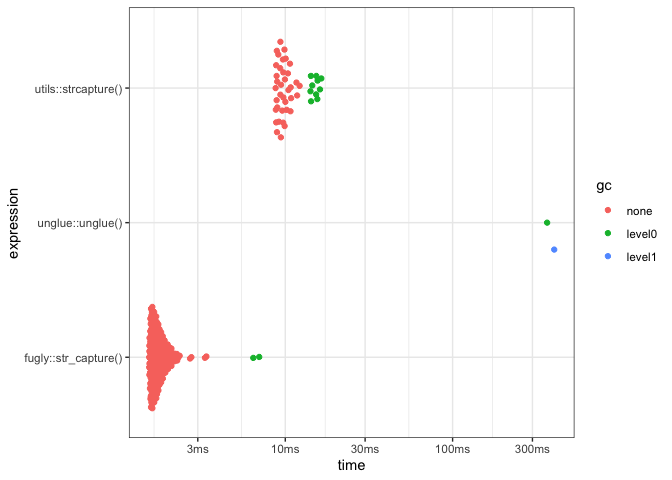
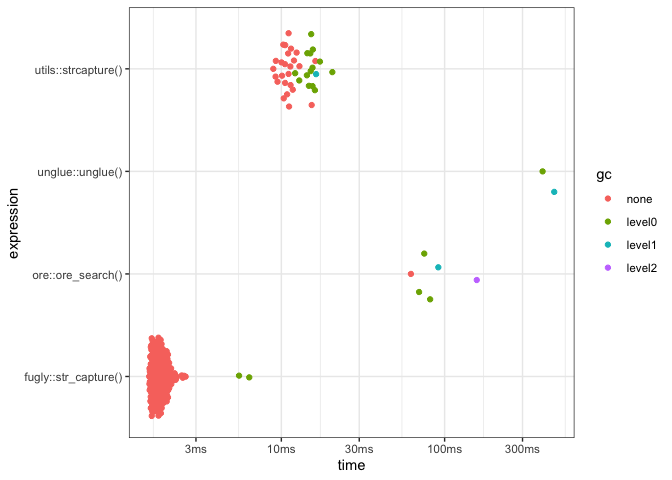
include {ore} in benchmark

diff --git a/README.md b/README.md
@@ -117,12 +117,18 @@ str_capture(string, pattern = '"number":"{number}","street":"{street}".*?"coordi
 
 ## Simple Benchmark
 
+I acknowledge that this isn’t the greatest benchmark, but it is relevant
+to my current use-case.
+
 -   For large inputs (1000+ input strings), `fugly` is the fastest
 -   For small inputs, `fugly` and `utils::strcapture` are about
     equivalent
--   `unglue` is the slowest of the 3 methods.
+-   `unglue` is the slowest of the methods.
+-   `ore` lies somewhere between `unglue` and `utils::strcapture`
 
 ``` r
+# remotes::install_github("jonclayden/ore")
+library(ore)
 library(unglue)
 library(ggplot2)
 
@@ -134,6 +140,7 @@ res <- bench::mark(
   `unglue::unglue()` = unglue::unglue_data(string, "Information name:{name} age:{age=\\d+}"),
   `utils::strcapture()` = utils::strcapture("Information name:(.*?) age:(\\d+)", string, 
                     proto = data.frame(name=character(), age=character())),
+  `ore::ore_search()` = do.call(rbind.data.frame, lapply(ore_search(ore('name:(?<name>.*?) age:(?<age>\\d+)', encoding='utf8'), string, all=TRUE), function(x) {x$groups$matches}))
 )
 ```
 
